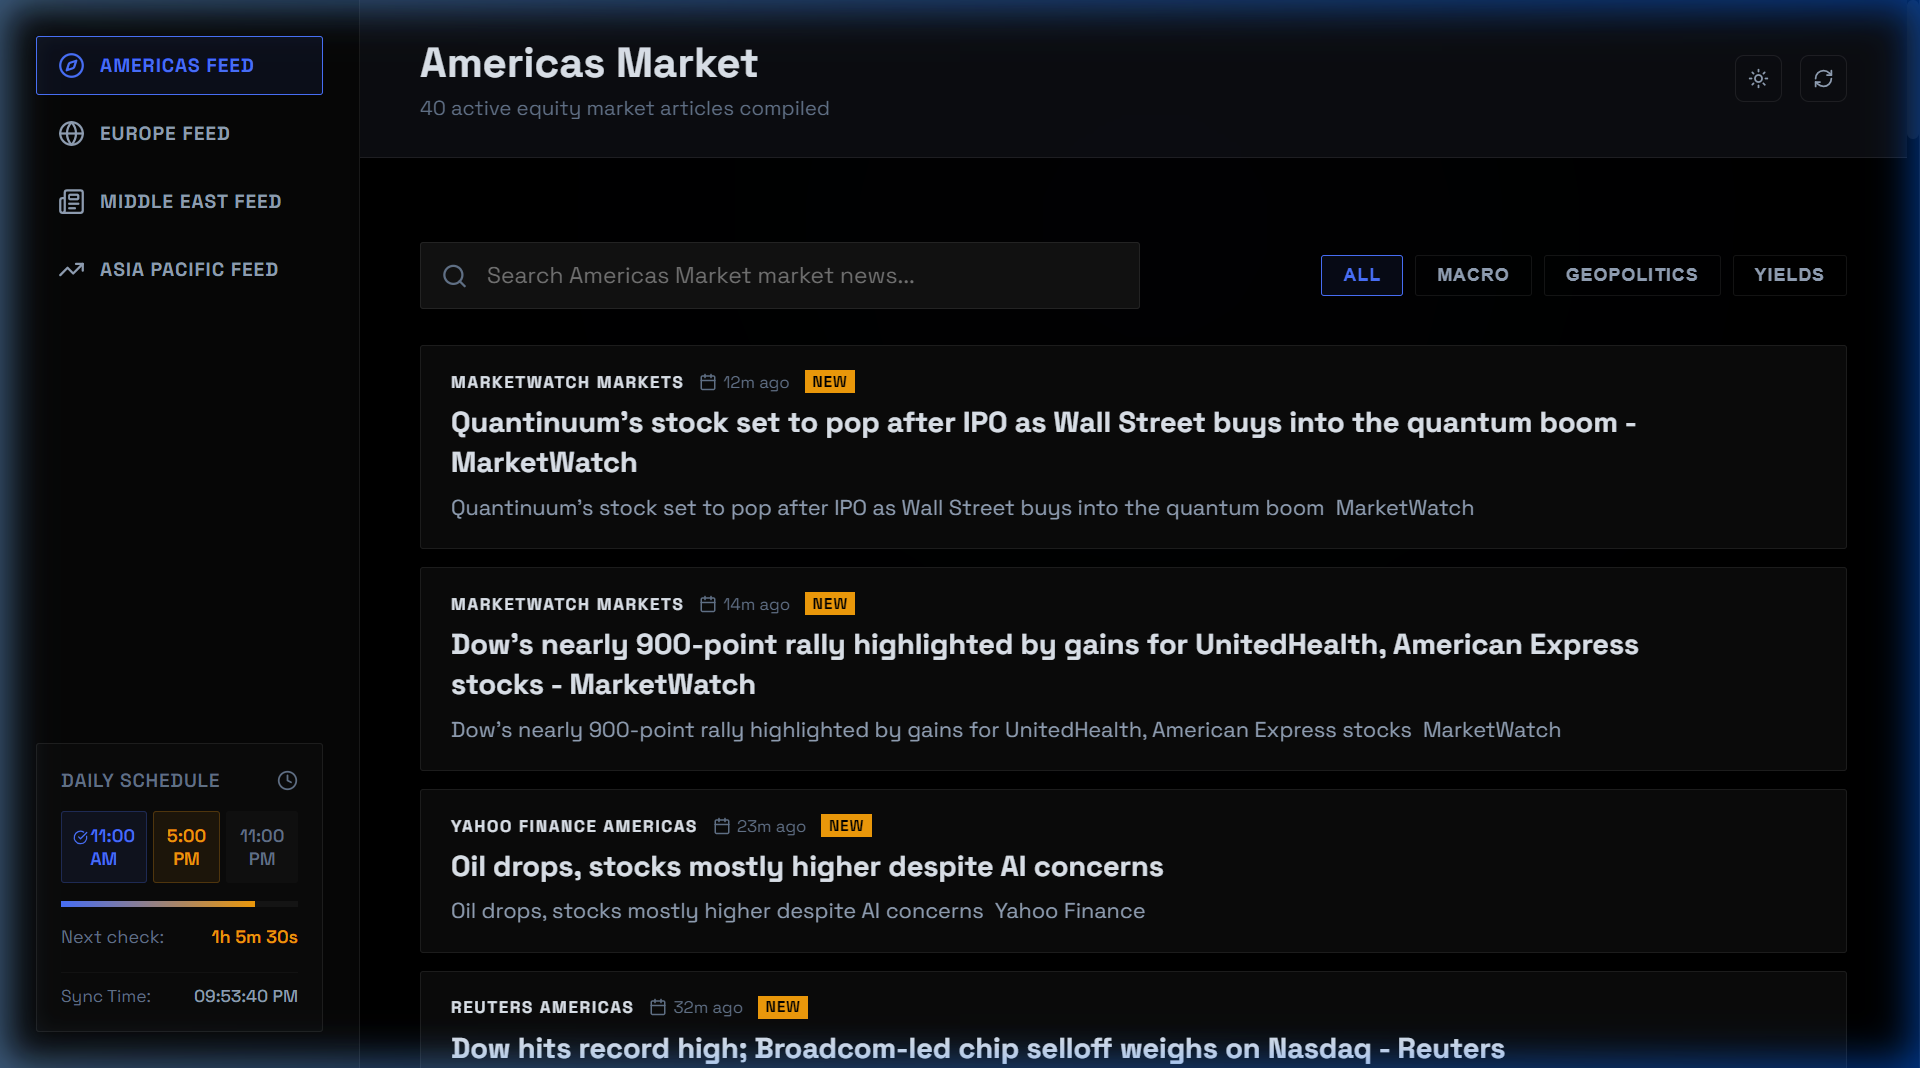
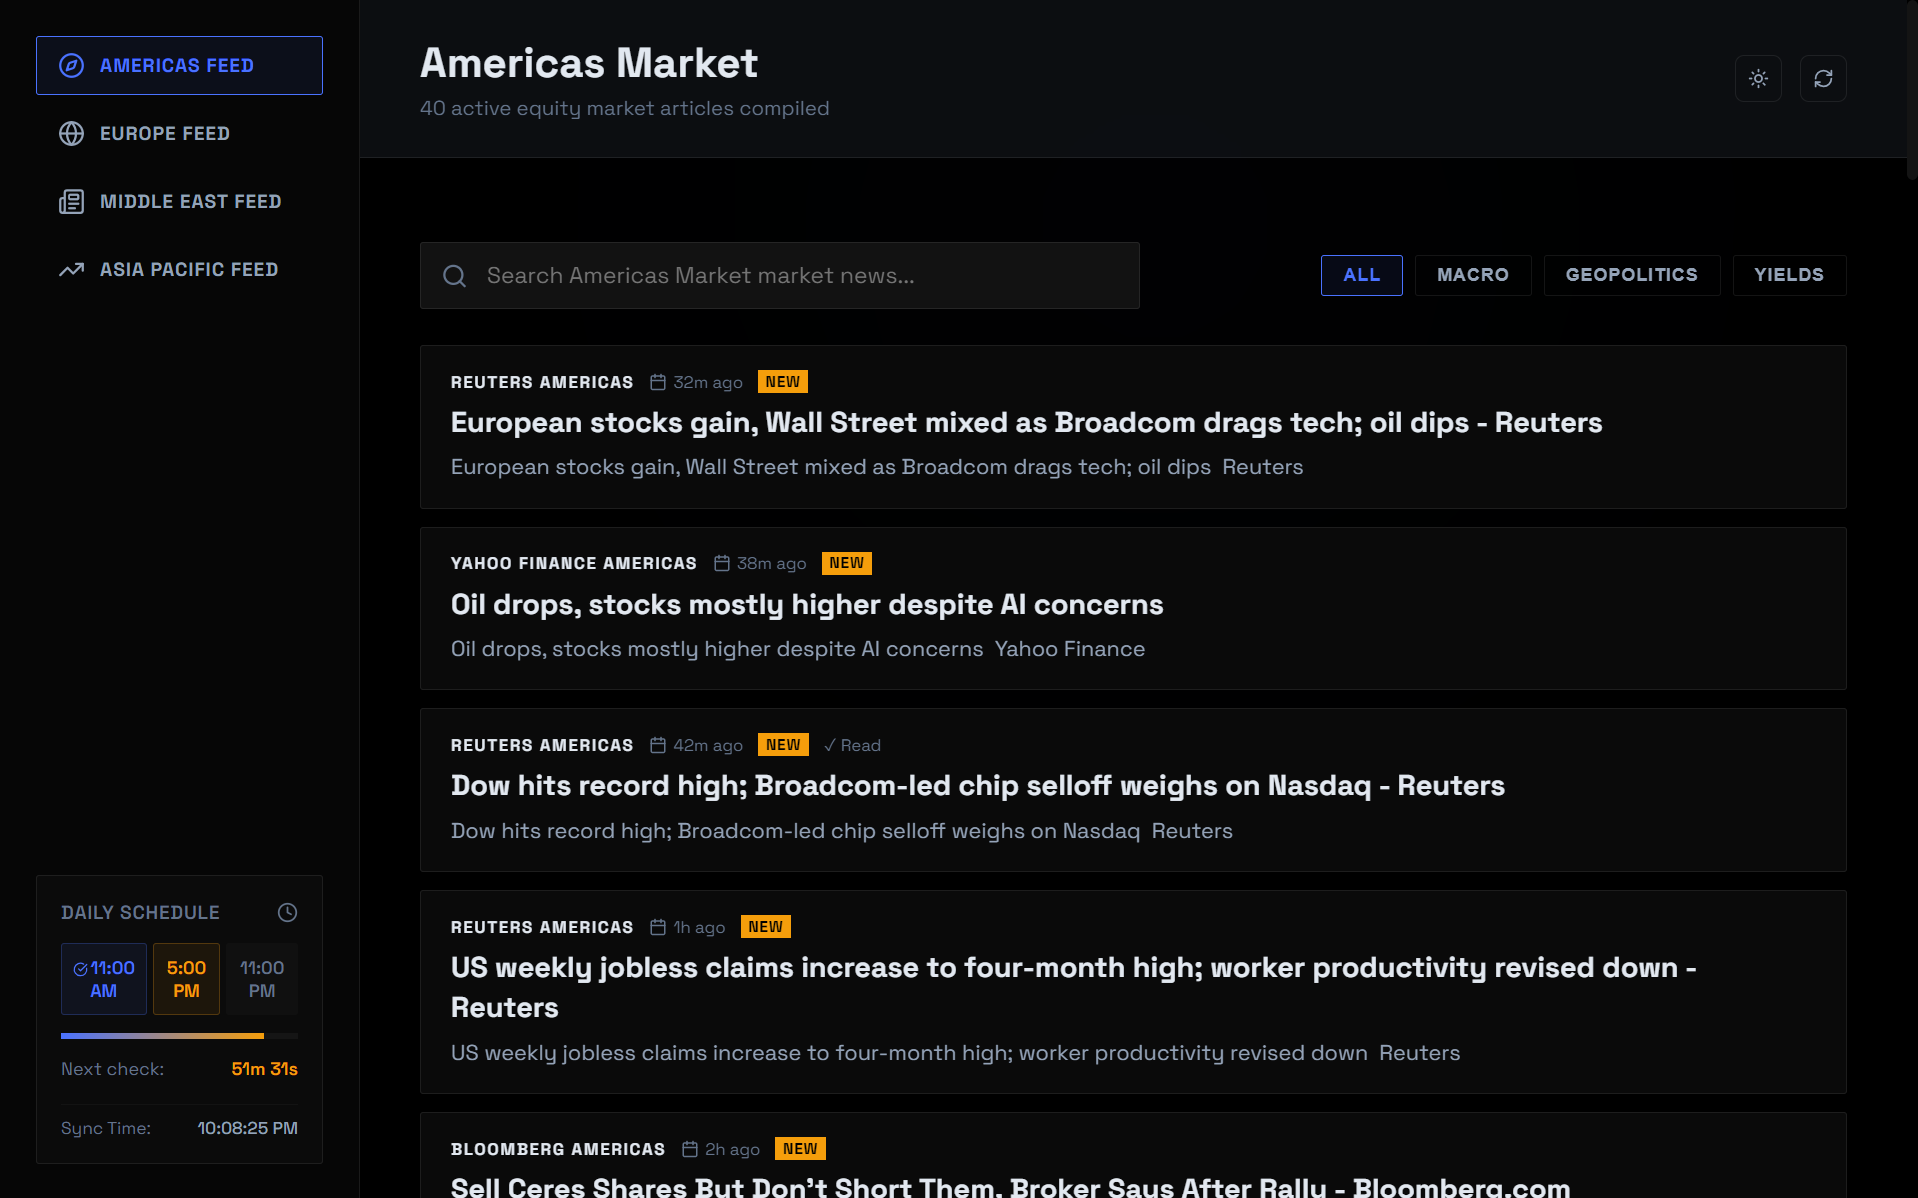
modified screenshots

diff --git a/mock_article.html b/mock_article.html
@@ -1,0 +1,88 @@
+<!DOCTYPE html>
+<html lang="en">
+<head>
+  <meta charset="UTF-8">
+  <title>Dow hits record high; Broadcom-led chip selloff weighs on Nasdaq</title>
+  <style>
+    :root {
+      --bg-dark: #0b0f19;
+      --bg-card: #111827;
+      --text-primary: #f3f4f6;
+      --text-secondary: #9ca3af;
+      --accent-blue: #4a72ff;
+      --border-color: rgba(255, 255, 255, 0.08);
+    }
+    body {
+      background-color: var(--bg-dark);
+      color: var(--text-primary);
+      font-family: -apple-system, BlinkMacSystemFont, "Segoe UI", Roboto, Helvetica, Arial, sans-serif;
+      margin: 0;
+      padding: 40px;
+      line-height: 1.6;
+    }
+    .container {
+      max-width: 680px;
+      margin: 0 auto;
+    }
+    .meta {
+      display: flex;
+      gap: 12px;
+      font-size: 0.85rem;
+      color: var(--text-secondary);
+      margin-bottom: 20px;
+      align-items: center;
+    }
+    .source {
+      color: var(--accent-blue);
+      font-weight: 600;
+      text-transform: uppercase;
+      letter-spacing: 0.5px;
+    }
+    h1 {
+      font-size: 2.2rem;
+      line-height: 1.25;
+      font-weight: 800;
+      margin-top: 0;
+      margin-bottom: 24px;
+      color: #ffffff;
+      letter-spacing: -0.5px;
+    }
+    p {
+      margin-top: 0;
+      margin-bottom: 20px;
+      font-size: 1.05rem;
+      color: #e5e7eb;
+    }
+    .highlight {
+      border-left: 3px solid var(--accent-blue);
+      padding-left: 16px;
+      font-style: italic;
+      color: var(--text-secondary);
+      margin: 30px 0;
+    }
+  </style>
+</head>
+<body>
+  <div class="container">
+    <div class="meta">
+      <span class="source">Reuters Americas</span>
+      <span>•</span>
+      <span>June 04, 2026</span>
+      <span>•</span>
+      <span>5 min read</span>
+    </div>
+    <h1>Dow hits record high; Broadcom-led chip selloff weighs on Nasdaq</h1>
+    <p>NEW YORK, June 4 (Reuters) - The Dow Jones Industrial Average surged to a fresh record high on Thursday, propelled by a strong rally in industrial and bank shares following positive macroeconomic data, while a steep selloff in chip stocks led by Broadcom dragged down the Nasdaq.</p>
+    
+    <p>Stronger-than-expected payroll reports and declining unemployment numbers bolstered investor confidence in a soft-landing scenario for the U.S. economy, fueling broad gains across cyclical sectors.</p>
+    
+    <div class="highlight">
+      "The market is displaying a classic rotation today. Value and cyclicals are taking the lead as investors gain confidence in the economic expansion, even as tech takes a breather," said Sarah Miller, chief market strategist at GreatHill Capital.
+    </div>
+
+    <p>In contrast, technology shares faced head-winds. Broadcom fell 6.2% after warning of temporary supply chain issues in its high-end AI components, pulling down peer chipmakers including Nvidia and Advanced Micro Devices.</p>
+    
+    <p>The S&P 500 remained flat, balancing out the tech selloff with financial and energy gains.</p>
+  </div>
+</body>
+</html>

diff --git a/tiled_preview.html b/tiled_preview.html
@@ -1,0 +1,52 @@
+<!DOCTYPE html>
+<html lang="en">
+<head>
+  <meta charset="UTF-8">
+  <title>Tiled Workspace Preview</title>
+  <style>
+    body {
+      margin: 0;
+      padding: 0;
+      display: flex;
+      width: 100vw;
+      height: 100vh;
+      background: #000;
+      overflow: hidden;
+      font-family: -apple-system, BlinkMacSystemFont, "Segoe UI", Roboto, sans-serif;
+    }
+    .pane {
+      height: 100vh;
+      border: none;
+    }
+    .left-pane {
+      width: 50vw;
+      border-right: 4px solid #1e293b;
+    }
+    .right-pane {
+      width: 50vw;
+    }
+    .divider-label {
+      position: absolute;
+      left: 50%;
+      top: 15px;
+      transform: translateX(-50%);
+      background: #111827;
+      color: #3b82f6;
+      padding: 6px 12px;
+      border-radius: 6px;
+      font-size: 11px;
+      font-weight: 700;
+      border: 1px solid rgba(59, 130, 246, 0.3);
+      z-index: 100;
+      letter-spacing: 0.8px;
+      box-shadow: 0 4px 12px rgba(0, 0, 0, 0.5);
+      text-transform: uppercase;
+    }
+  </style>
+</head>
+<body>
+  <div class="divider-label">Tiled Split Workspace</div>
+  <iframe class="pane left-pane" src="http://localhost:5173/?mode=dashboard"></iframe>
+  <iframe class="pane right-pane" src="mock_article.html"></iframe>
+</body>
+</html>